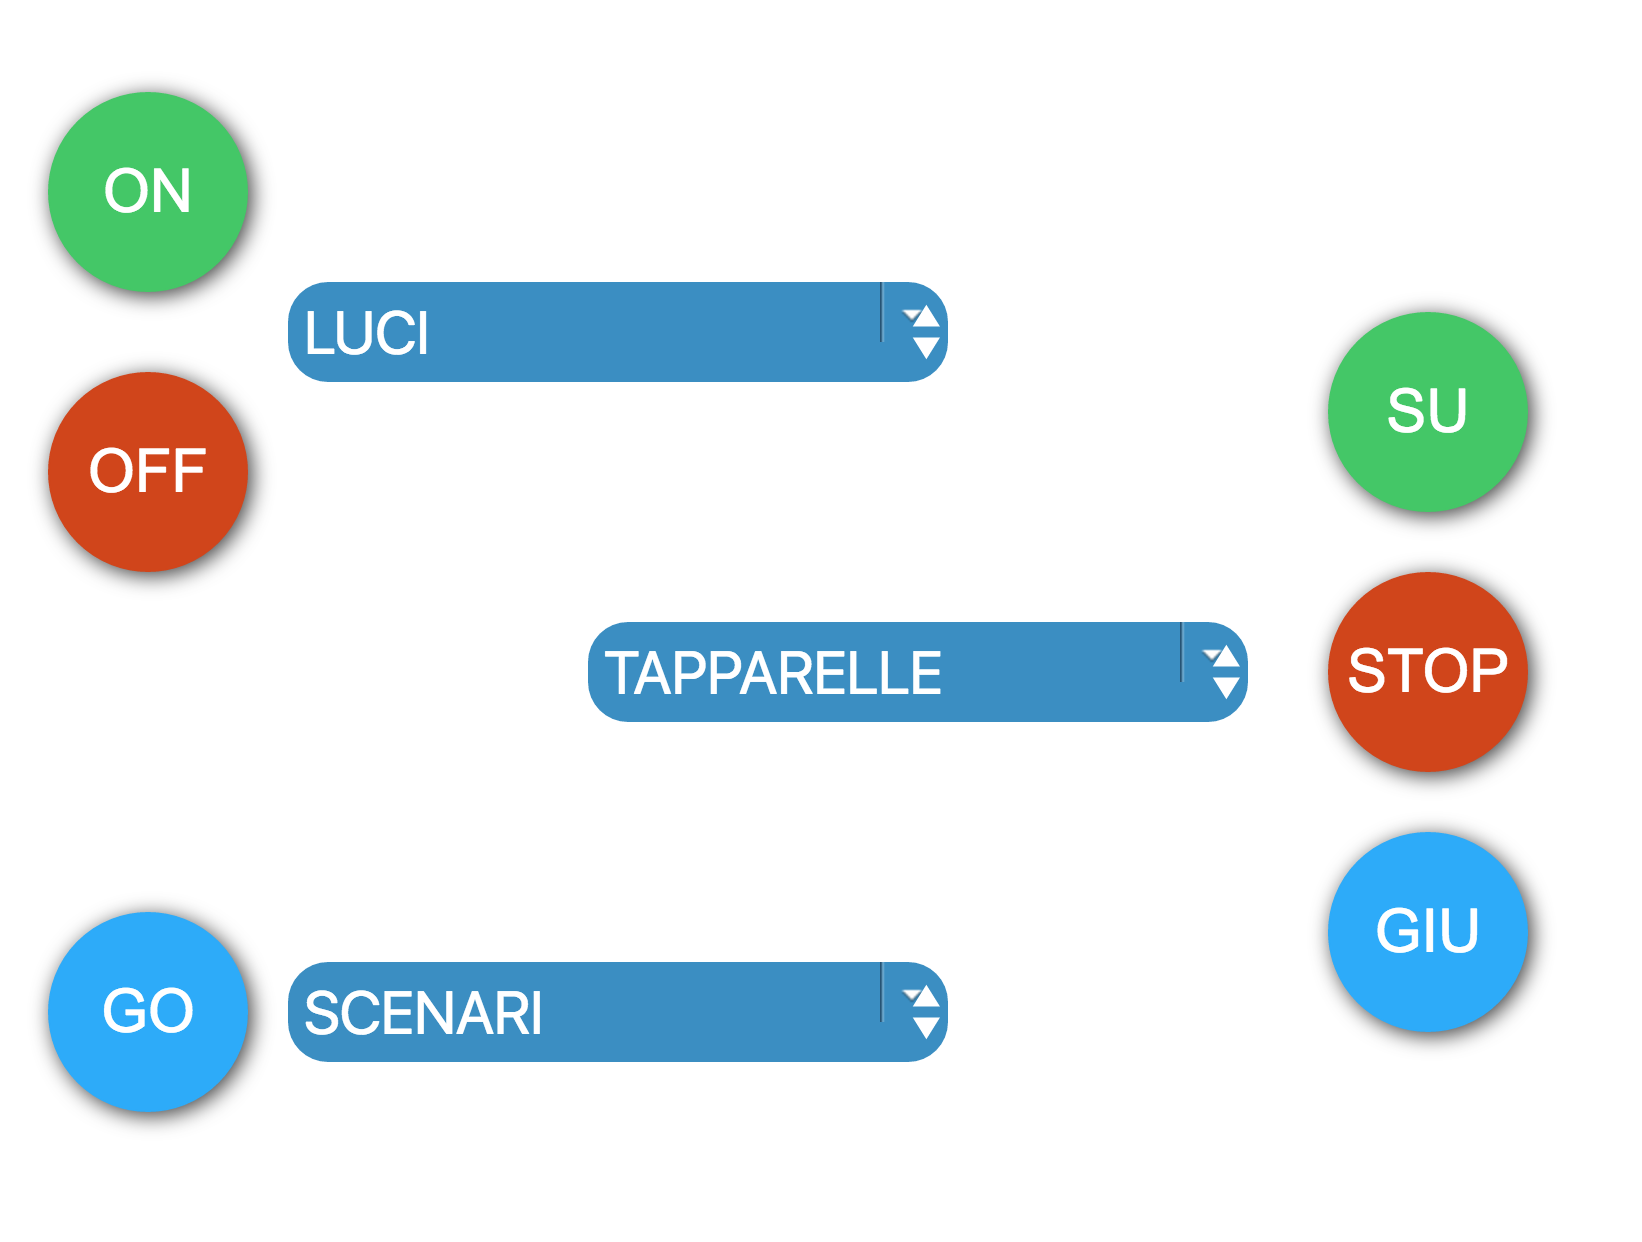
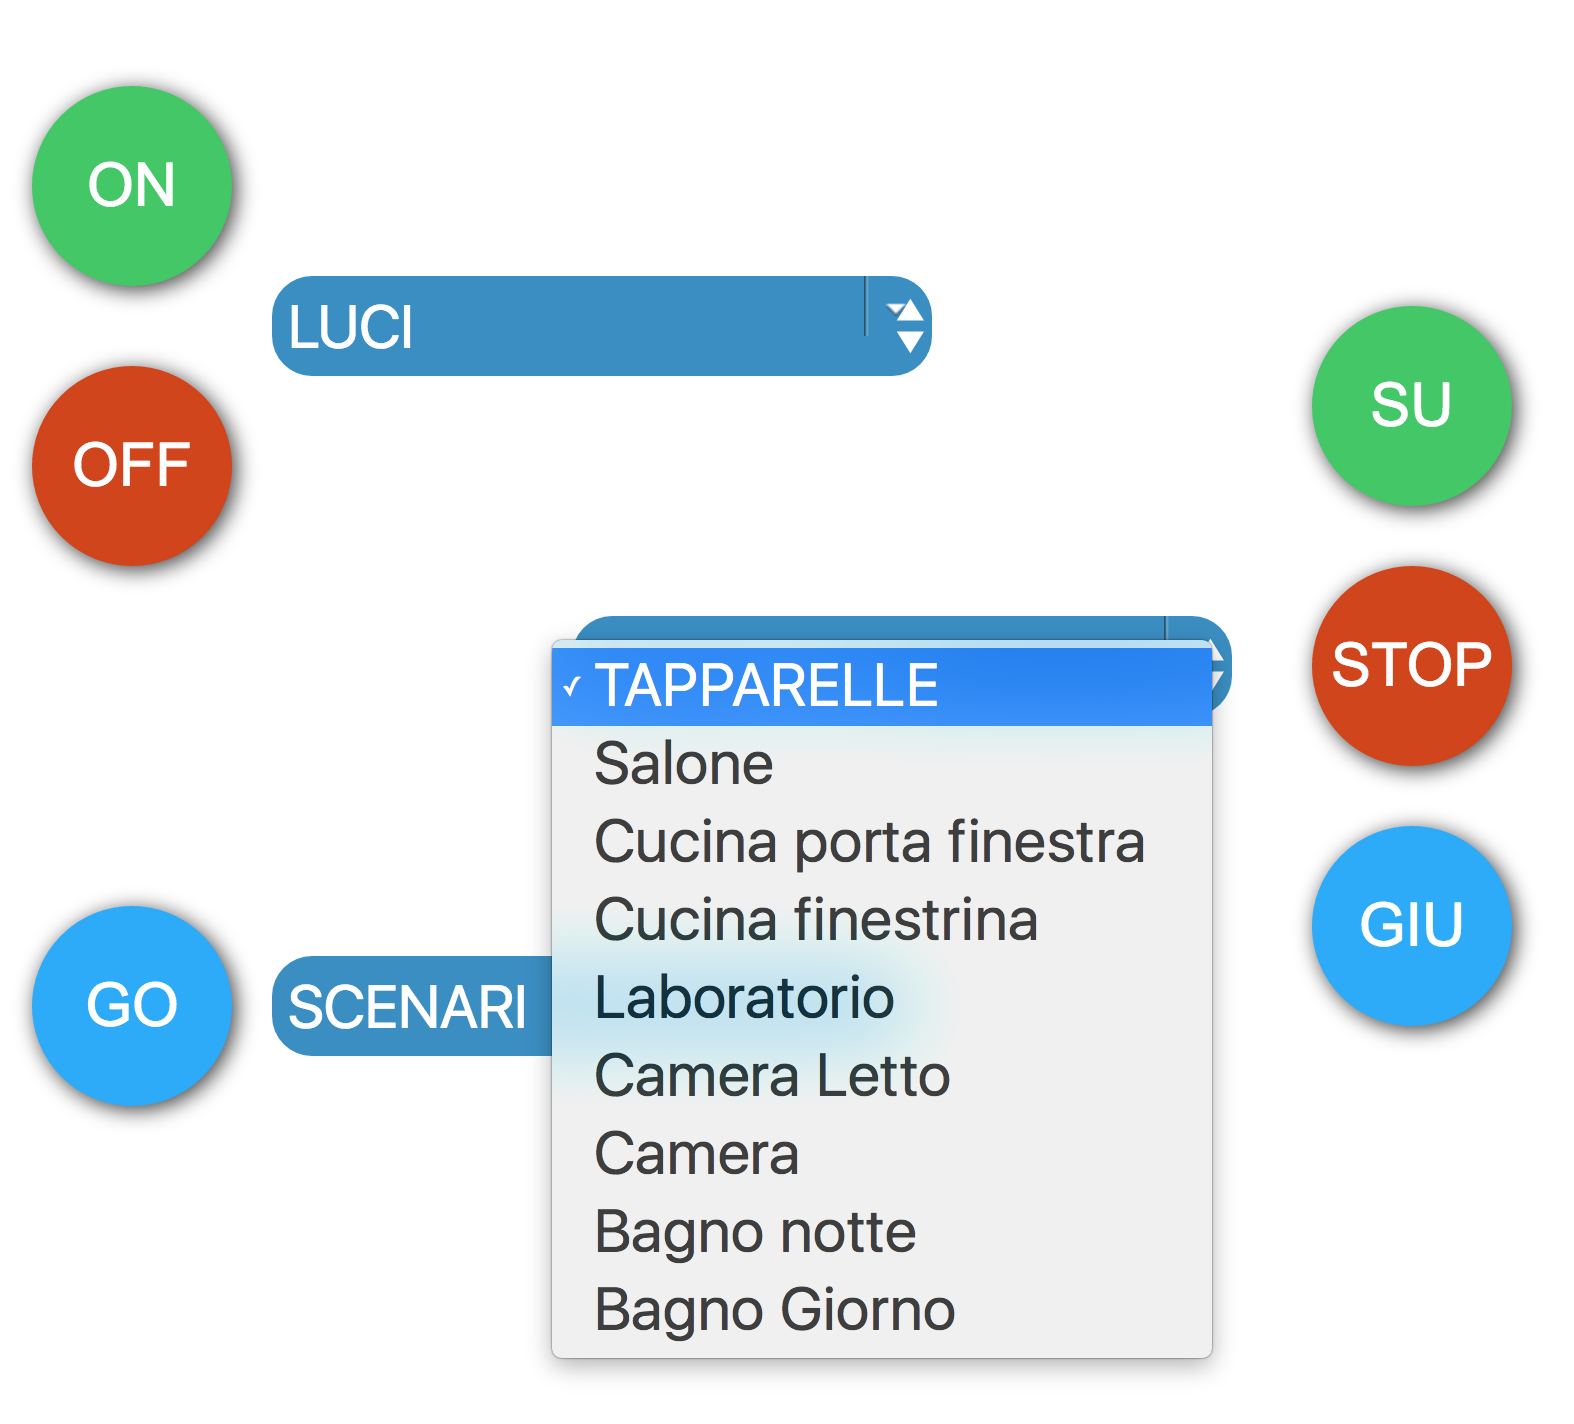
typo and updates

diff --git a/README.md b/README.md
@@ -1,6 +1,6 @@
 Using the hardware and knowledge base got from this site:
 http://guidopic.altervista.org/alter/knxgate.html
-I slightly modified the original circuit based on Microchip PIC 18f26k20 8 bit MCU, adding just the power supply from 28V KNX bus and isolating the serial line with optocouplers.
+I slightly modified the original circuit based on Microchip PIC 18f26k80 8 bit MCU, adding just the power supply from 28V KNX bus and isolating the serial line with optocouplers.
 This board has been interfaced on the serial line with Ubuntu 14.04 installed on a Cubieboard2 SBC.
 On the SBC runs node.js 4.4.7 LTS as application server with the appropriate modules. The GUI is developed in HTML5 and it's connected to the application server using websockets. The GUI, published from the SBC itself, has been tested on different browsers, included ones running on iOS and Android.
 It's very simple and must be intended as a starting point for a more sophisticated interface. This job derives from the studies done for another interface:
@@ -13,3 +13,6 @@ Any information about KNX can be obtained on the Net were a lot of pages are ava
 Information about PIC firmware can obtained from the original project site.
 
 Any contribution will be appreciated.
+
+
+![Alt text](https://github.com/guiott/KNX/blob/master/KNX_GUI_example.png?raw=true "GUI example")
